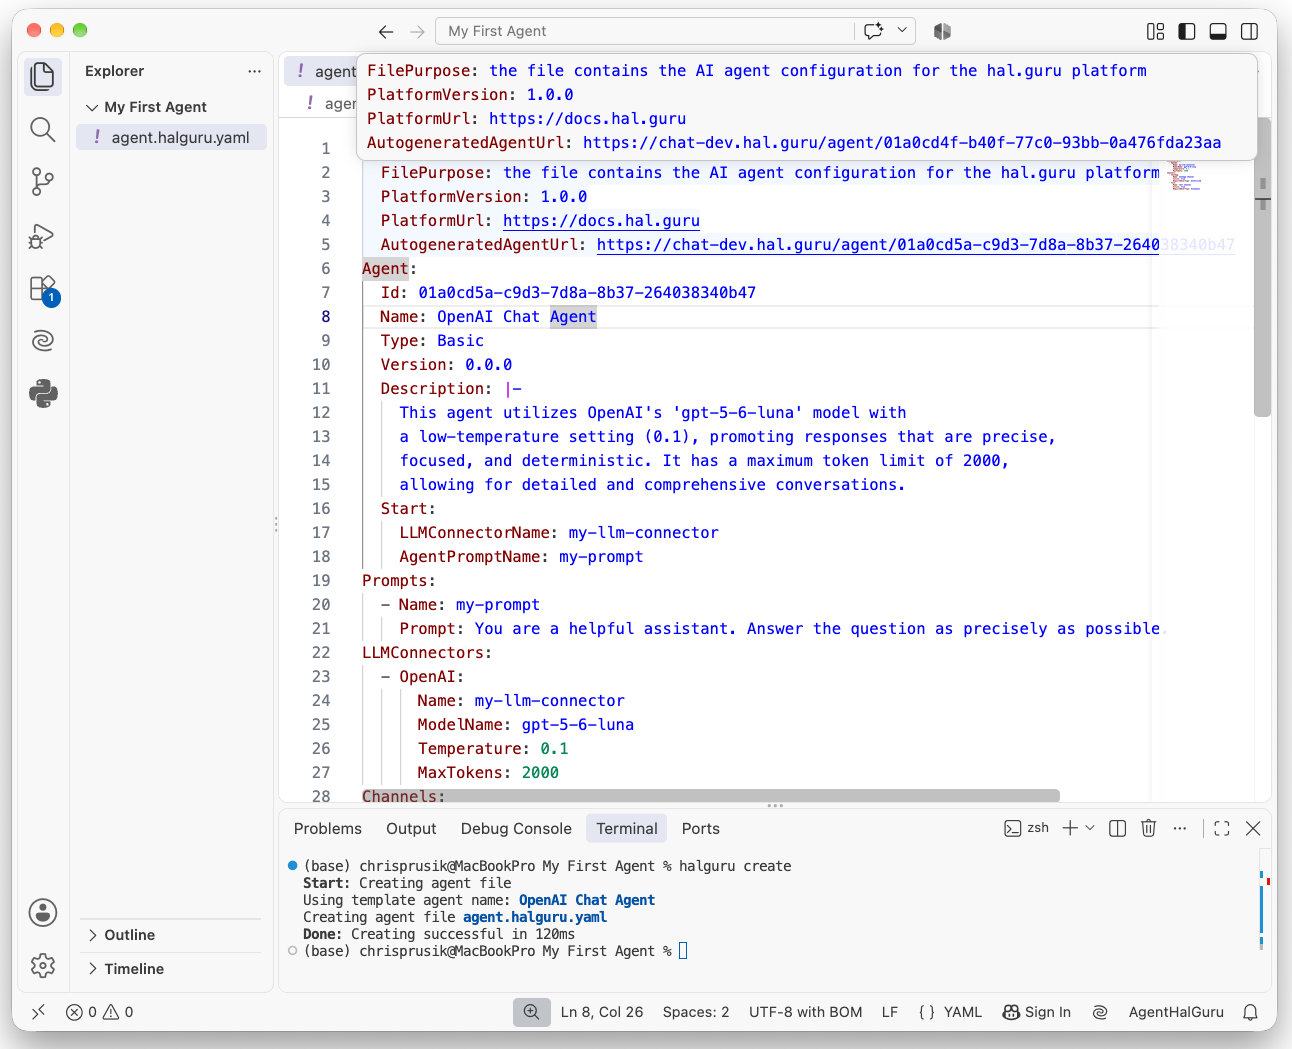
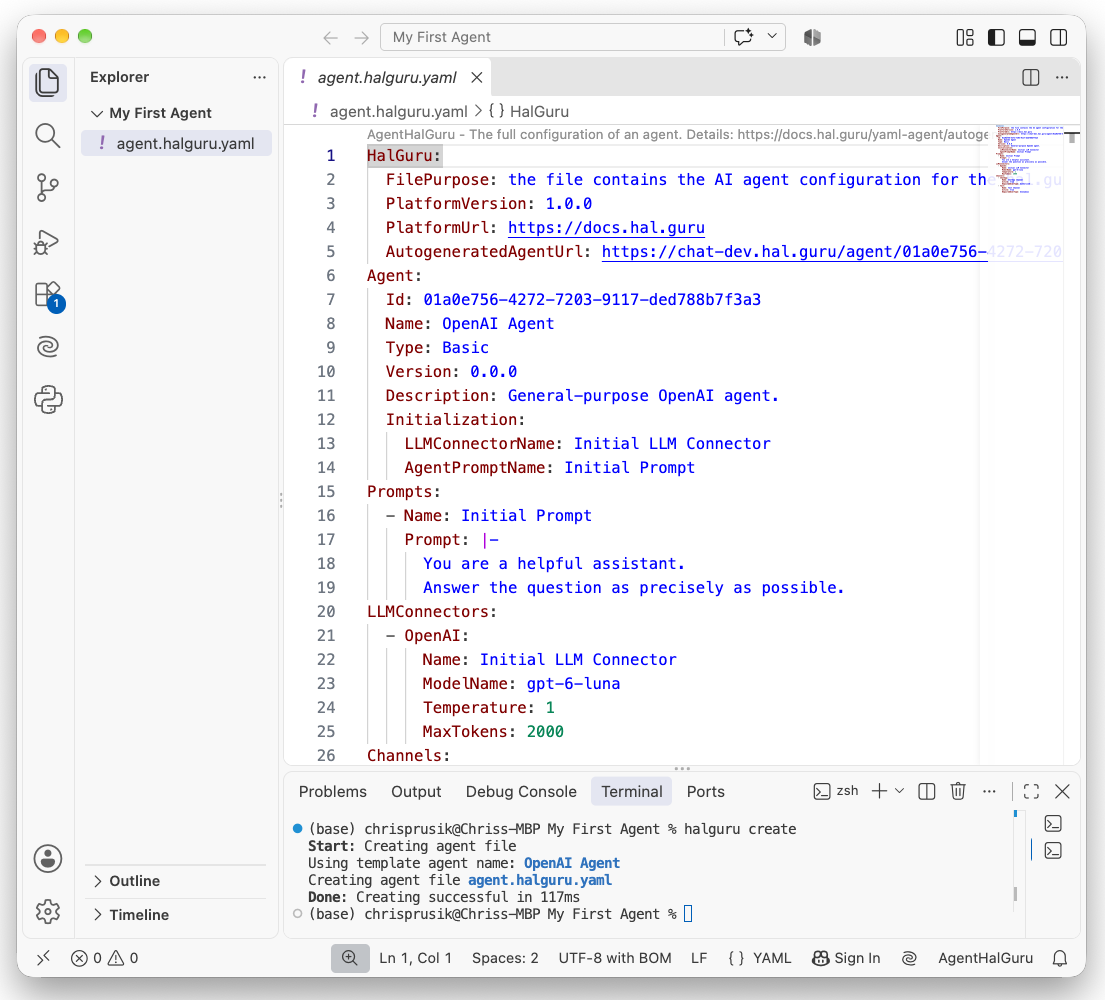
Update docs: Add self-hosted configuration guide, refine agent setup steps, and improve environment preparation instructions

Changed region(s): [[0.0, 0.0, 1.0, 0.992]]

diff --git a/docs/getting-started/preparing-your-environment/index.md b/docs/getting-started/preparing-your-environment/index.md
@@ -8,7 +8,7 @@ Pre-requisite steps: [Visual Studio Code and halguru CLI installed](../../instal
 
 ## Creating an account on the hal.guru platform
 
-1. **Create an Account**: Register on the hal.guru platform via the [registration page](https://admin.hal.guru) (or use the url to the Self-Hosted Admin Endpoint)
+1. **Create an Account**: Register on the hal.guru platform via the [registration page](https://admin.hal.guru) (or use the url to the Self-Hosted Admin Endpoint `https://admin.yourdomain.com`)
 2. **Set Up a Package**: Navigate to the dashboard and create your first `Package` to organize and manage your AI agents.
 3. **Generate an API Key**: Within your newly created Package settings, generate an `API Key` and copy it to your clipboard. Store it securely, as it will be required to authenticate CLI operations and agent interactions.
 
@@ -78,75 +78,9 @@ There are 0 all agents published on the platform.
 Done: List successful in 144ms
 ```
 
+> NOTE: [For self-hosted environments](self-hosted-environment.md), you need to configure the `HalGuruApiUrl` environment variable to point to your self-hosted API endpoint. 
+
 ## Configuring a Self-Hosted API Endpoint (`HalGuruApiUrl`)
-
-To maximize reliability and ensure smooth communication with an on-premises or private self-hosted instance of the hal.guru platform, configure the custom API endpoint URL. When using a self-hosted server, the CLI needs to route requests to your specific domain rather than the default cloud infrastructure.
-
-Set the `HalGuruApiUrl` environment variable alongside your `HalGuruApiKey`:
-
-=== "macOS (Zsh)"
-
-    1. Open your shell configuration file:
-    ```bash
-    code ~/.zshrc
-    ```
-    *(You can replace `code` with your preferred editor, such as `nano ~/.zshrc` or `vim ~/.zshrc`)*
-
-    2. Append the export statement:
-    ```bash
-    export HalGuruApiUrl="https://api.yourserver.com/"
-    ```
-
-    3. Reload the configuration in your active terminal session:
-    ```bash
-    source ~/.zshrc
-    ```
-
-=== "Linux (Bash / Zsh)"
-
-    1. Open your profile configuration file (e.g., `~/.bashrc` for Bash or `~/.zshrc` for Zsh):
-    ```bash
-    code ~/.bashrc
-    ```
-    *(You can replace `code` with your preferred editor, such as `nano ~/.zshrc` or `vim ~/.zshrc`)*
-
-    2. Add the export statement at the end:
-    ```bash
-    export HalGuruApiUrl="https://api.yourserver.com/"
-    ```
-
-    3. Apply the changes:
-    ```bash
-    source ~/.bashrc
-    ```
-
-=== "Windows"
-
-    Open a terminal with administrator privileges. Right-click the **Start** button (or press `Win + X`) and select **Terminal (Admin)** or **Windows PowerShell (Administrator)**. Copy and paste the following command.
-
-    ```cmd
-    setx HalGuruApiUrl "https://api.yourserver.com/"
-    ```
-
-    Restart your terminal after setting permanent environment variables for the changes to take effect.
-
-To check the connection to the hal.guru platform API, execute the command in the terminal:
-
-```bash
-halguru platform status
-```
-
-You should get a result like:
-
-```
-Start: Checking API platform status
-Using API URL: https://api.yourserver.com/
-The API platform is up and running.
-The halguru CLI version: 1.93.0
-API core version: 1.93.0
-API app version: 1.82.0
-Done: Platform status retrieved successfully in 300ms
-```
 
 ## Next step
 

diff --git a/docs/getting-started/preparing-your-environment/self-hosted-environment.md b/docs/getting-started/preparing-your-environment/self-hosted-environment.md
@@ -1,0 +1,77 @@
+---
+title: Self-hosted environment
+description: Creating an account on the hal.guru platform. Setting the HalGuruApiKey Environment Variable. Configuring a Self-Hosted API Endpoint `HalGuruApiUrl` (if necessary).
+author: Chris Prusik
+---
+
+When using a self-hosted server, the CLI needs to route requests to your specific domain rather than the default cloud infrastructure. 
+
+Set the `HalGuruApiUrl` environment variable alongside your `HalGuruApiKey`:
+
+=== "macOS (Zsh)"
+
+    1. Open your shell configuration file:
+    ```bash
+    code ~/.zshrc
+    ```
+    *(You can replace `code` with your preferred editor, such as `nano ~/.zshrc` or `vim ~/.zshrc`)*
+
+    2. Append the export statement:
+    ```bash
+    export HalGuruApiUrl="https://api.yourserver.com/"
+    ```
+
+    3. Reload the configuration in your active terminal session:
+    ```bash
+    source ~/.zshrc
+    ```
+
+=== "Linux (Bash / Zsh)"
+
+    1. Open your profile configuration file (e.g., `~/.bashrc` for Bash or `~/.zshrc` for Zsh):
+    ```bash
+    code ~/.bashrc
+    ```
+    *(You can replace `code` with your preferred editor, such as `nano ~/.zshrc` or `vim ~/.zshrc`)*
+
+    2. Add the export statement at the end:
+    ```bash
+    export HalGuruApiUrl="https://api.yourserver.com/"
+    ```
+
+    3. Apply the changes:
+    ```bash
+    source ~/.bashrc
+    ```
+
+=== "Windows"
+
+    Open a terminal with administrator privileges. Right-click the **Start** button (or press `Win + X`) and select **Terminal (Admin)** or **Windows PowerShell (Administrator)**. Copy and paste the following command.
+
+    ```cmd
+    setx HalGuruApiUrl "https://api.yourserver.com/"
+    ```
+
+    Restart your terminal after setting permanent environment variables for the changes to take effect.
+
+To check the connection to the hal.guru platform API, execute the command in the terminal:
+
+```bash
+halguru platform status
+```
+
+You should get a result like:
+
+```
+Start: Checking API platform status
+Using API URL: https://api.yourserver.com/
+The API platform is up and running.
+The halguru CLI version: 1.93.0
+API core version: 1.93.0
+API app version: 1.82.0
+Done: Platform status retrieved successfully in 300ms
+```
+
+## Next step
+
+Once you have prepared your environment, you can proceed to [Building your first agent](../building-your-first-agent/index.md).

diff --git a/docs/getting-started/building-your-first-agent/index.md b/docs/getting-started/building-your-first-agent/index.md
@@ -26,6 +26,25 @@ Your screen should now display a layout similar to the following:
 
 ![Initialization](initialization.png)
 
-### Pierwsze uruchomienie
+### Running Your Agent for the First Time
 
-Aby uruchomić agenta lokalnie, w terminalu wpisz polecenie `halguru talk`.
+To start and interact with your agent locally, enter the following command in your terminal:
+
+```bash
+halguru talk
+```
+
+To verify that the agent is functioning correctly, try asking a simple test question such as `2+2=`. 
+The agent should respond with `4`. 
+When you are finished, enter `q` (or `quit`) to safely terminate the conversation session.
+```
+Start: Conversation
+Using agent file /Users/myaccount/Documents/My First Agent/agent.halguru.yaml
+Using agent id: 01A0E756-4272-7203-9117-DED788B7F3A3, name: OpenAI Agent, version: 0.0.0
+OpenAI Agent: Ready. What would you like to do?
+Type q or quit to exit.
+You: 2+2=
+OpenAI Agent: 4
+You: q
+Done: Conversation has been finished
+```
